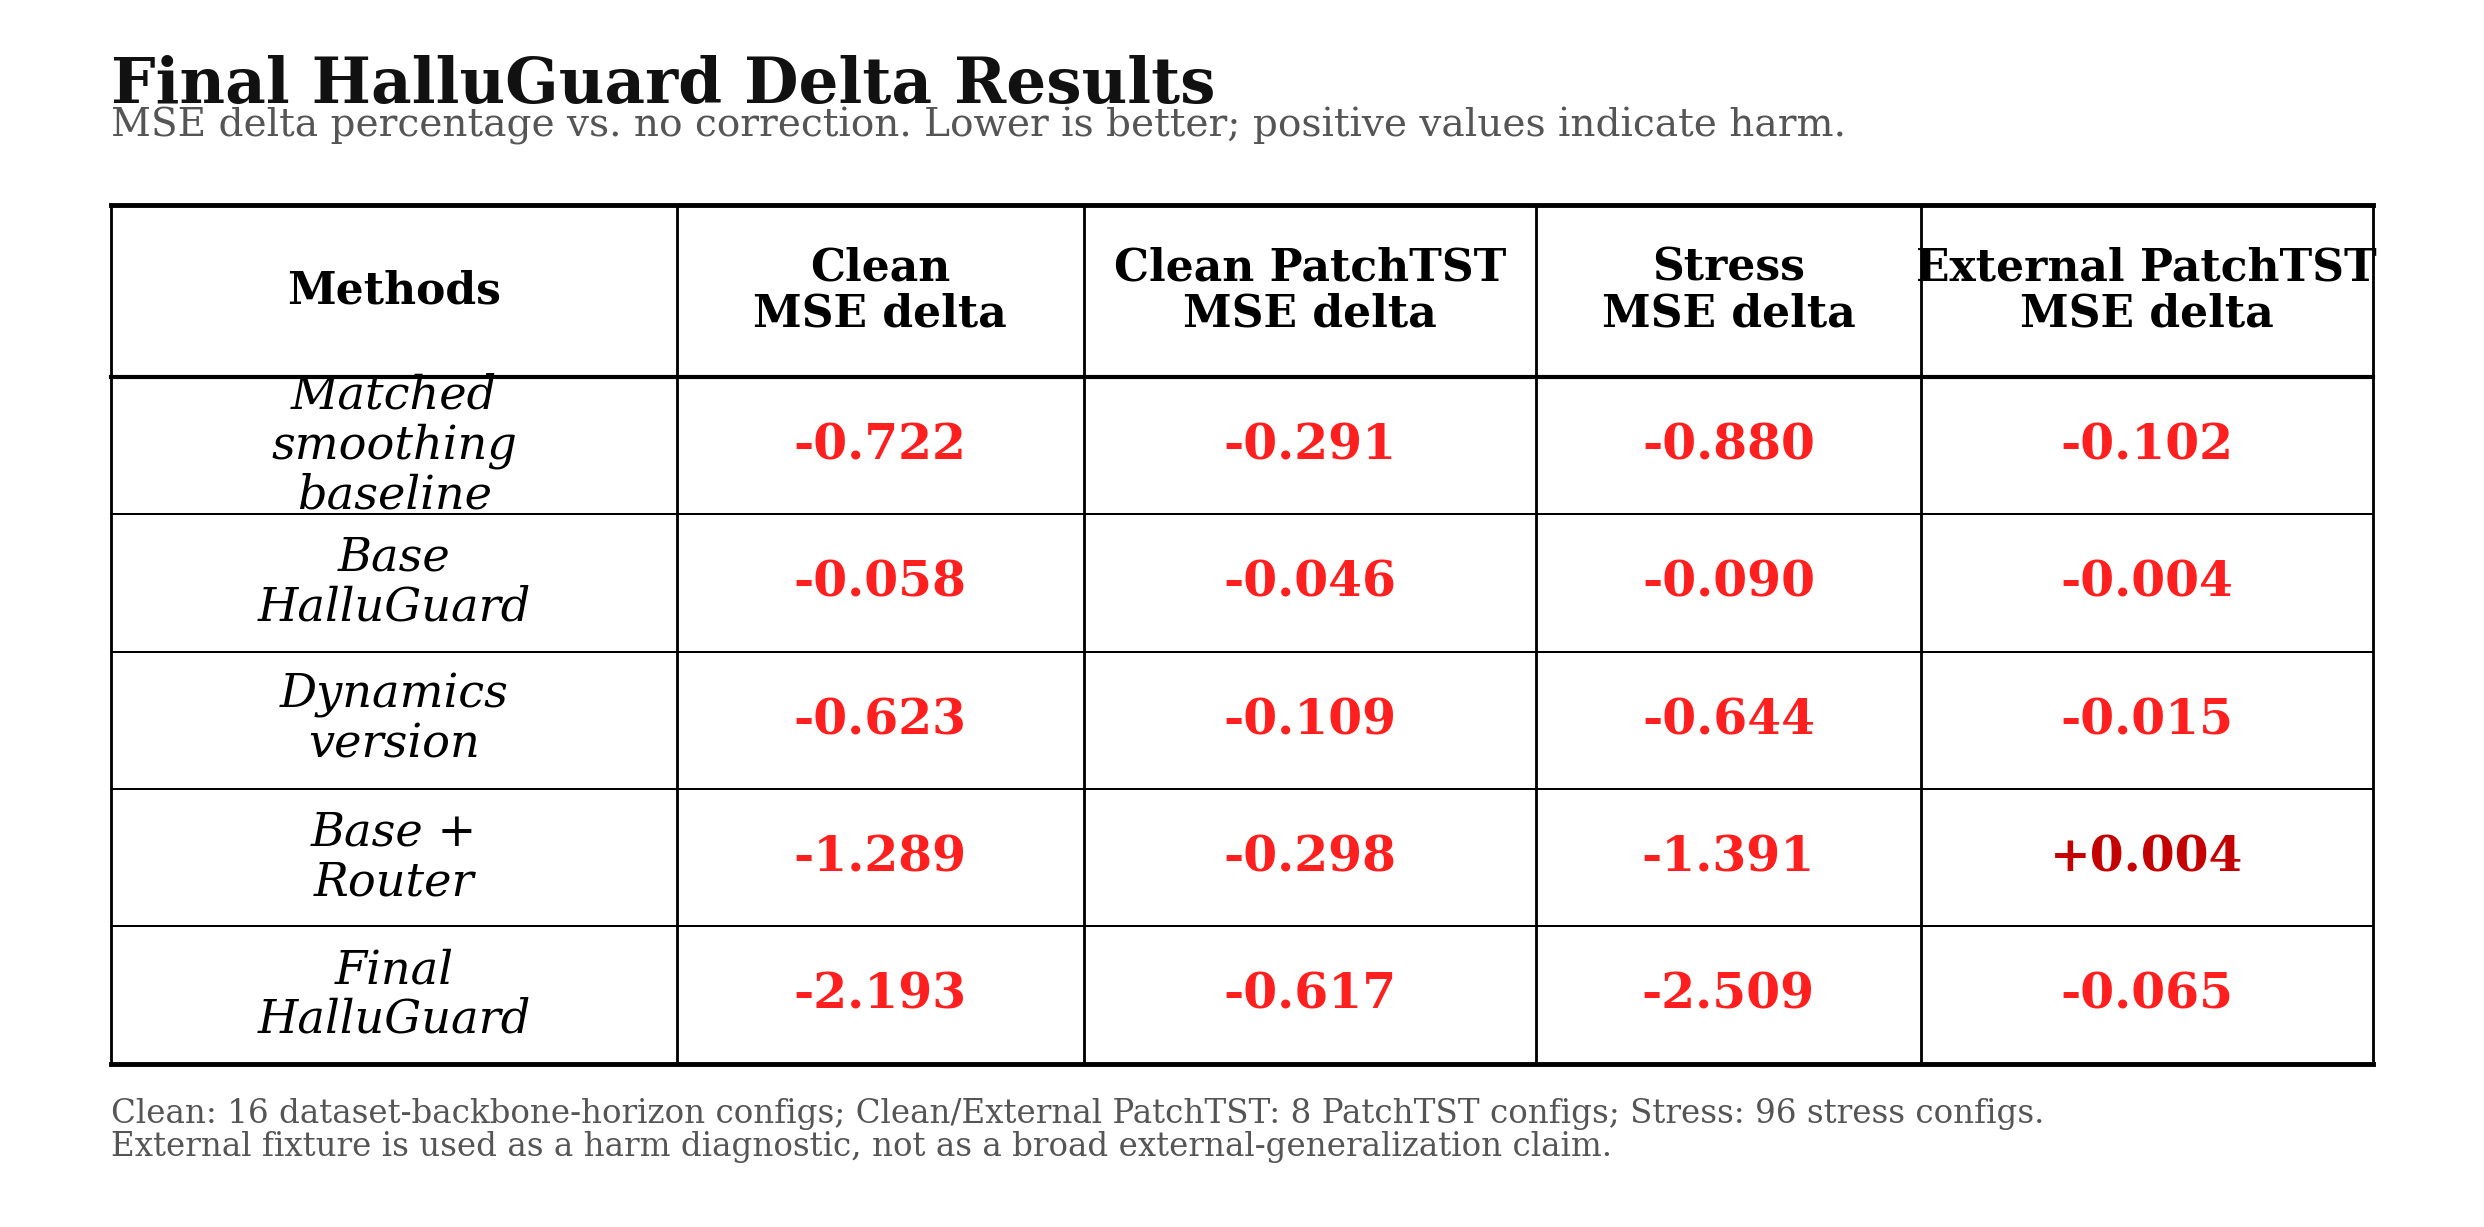
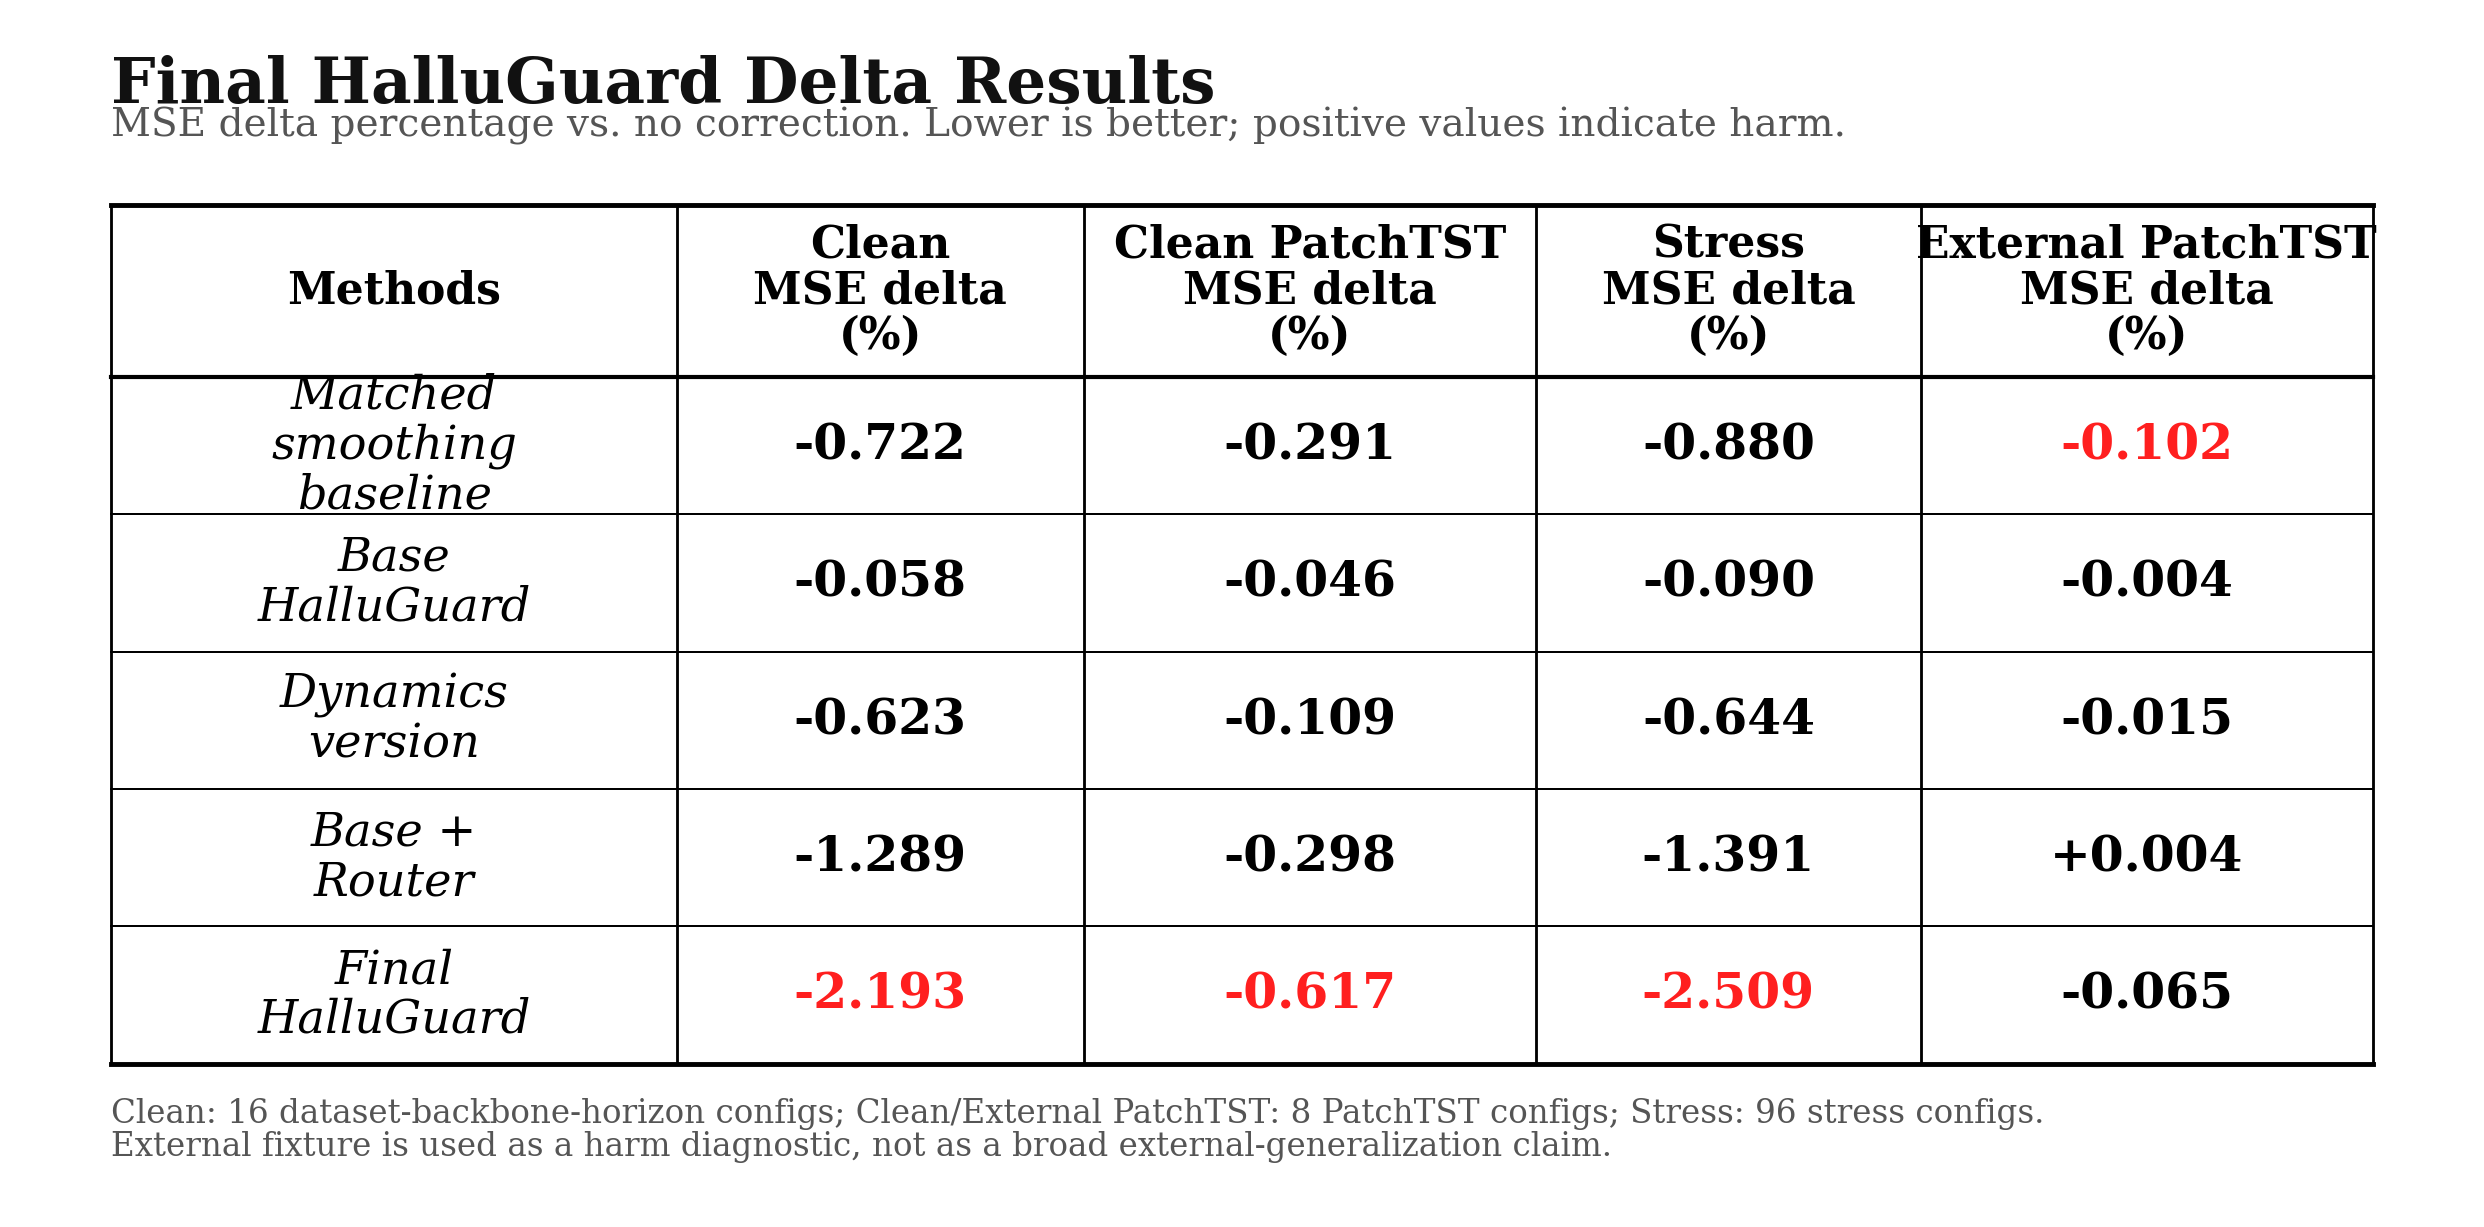
Highlight best delta table values

diff --git a/scripts/make_final_delta_results_table.py b/scripts/make_final_delta_results_table.py
@@ -108,6 +108,7 @@ def draw_table() -> None:
         "Stress\nMSE delta",
         "External PatchTST\nMSE delta",
     ]
+    headers = [headers[0]] + [f"{header}\n(%)" for header in headers[1:]]
     for i, label in enumerate(headers):
         ax.text(
             (xs[i] + xs[i + 1]) / 2,
@@ -122,8 +123,11 @@ def draw_table() -> None:
             linespacing=1.08,
         )
 
-    num_color = "#ff1f1f"
-    harm_color = "#c40000"
+    best_color = "#ff1f1f"
+    default_color = "black"
+    best_by_col = []
+    for key in ("clean", "clean_patch", "stress", "external_patch"):
+        best_by_col.append(min(row[key] for row in ROWS))
 
     for ri, row in enumerate(ROWS):
         y_top = header_bottom - ri * row_h
@@ -147,7 +151,7 @@ def draw_table() -> None:
         values = [row["clean"], row["clean_patch"], row["stress"], row["external_patch"]]
         for vi, value in enumerate(values):
             ci = vi + 1
-            is_harm = value > 0
+            is_best = abs(value - best_by_col[vi]) < 1e-12
             ax.text(
                 (xs[ci] + xs[ci + 1]) / 2,
                 y,
@@ -157,7 +161,7 @@ def draw_table() -> None:
                 fontsize=13.5,
                 fontweight="bold",
                 fontfamily="DejaVu Serif",
-                color=harm_color if is_harm else num_color,
+                color=best_color if is_best else default_color,
             )
 
     ax.text(